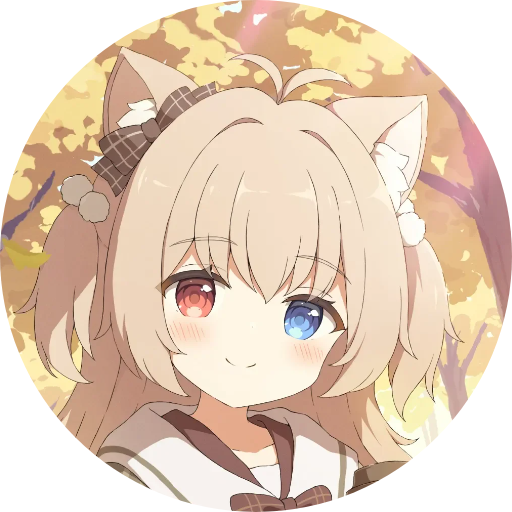
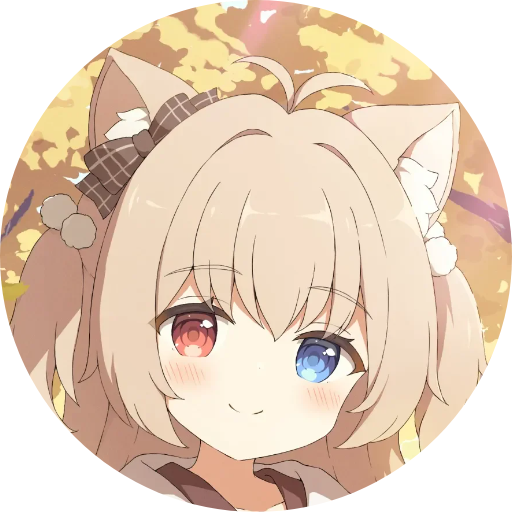
修改了头像放大后的拉伸问题

diff --git a/high-school-worker-design-forend/src/pages/Profile/index.tsx b/high-school-worker-design-forend/src/pages/Profile/index.tsx
@@ -15,6 +15,11 @@ const AVATAR_STAGE_HEIGHT = 320;
 const AVATAR_CIRCLE_SIZE = 220;
 const AVATAR_OUTPUT_SIZE = 512;
 
+const getDefaultCircleOffset = () => ({
+  x: Math.round((AVATAR_STAGE_WIDTH - AVATAR_CIRCLE_SIZE) / 2),
+  y: Math.round((AVATAR_STAGE_HEIGHT - AVATAR_CIRCLE_SIZE) / 2),
+});
+
 export default function ProfilePage() {
   const navigate = useNavigate();
   const { user, logout, setUser } = useAuthStore();
@@ -36,17 +41,11 @@ export default function ProfilePage() {
   const [pendingImageNaturalSize, setPendingImageNaturalSize] = useState({ width: 0, height: 0 });
   const [pendingCropScale, setPendingCropScale] = useState(1);
   const [pendingCropOffset, setPendingCropOffset] = useState({ x: 0, y: 0 });
-  const [pendingCircleOffset, setPendingCircleOffset] = useState({
-    x: Math.round((AVATAR_STAGE_WIDTH - AVATAR_CIRCLE_SIZE) / 2),
-    y: Math.round((AVATAR_STAGE_HEIGHT - AVATAR_CIRCLE_SIZE) / 2),
-  });
+  const [pendingCircleOffset, setPendingCircleOffset] = useState(getDefaultCircleOffset);
   const [pendingDragMode, setPendingDragMode] = useState<'none' | 'image' | 'circle'>('none');
   const [pendingDragStartMouse, setPendingDragStartMouse] = useState({ x: 0, y: 0 });
   const [pendingDragStartImageOffset, setPendingDragStartImageOffset] = useState({ x: 0, y: 0 });
-  const [pendingDragStartCircleOffset, setPendingDragStartCircleOffset] = useState({
-    x: Math.round((AVATAR_STAGE_WIDTH - AVATAR_CIRCLE_SIZE) / 2),
-    y: Math.round((AVATAR_STAGE_HEIGHT - AVATAR_CIRCLE_SIZE) / 2),
-  });
+  const [pendingDragStartCircleOffset, setPendingDragStartCircleOffset] = useState(getDefaultCircleOffset);
   const [pendingActivePointerId, setPendingActivePointerId] = useState<number | null>(null);
 
   useEffect(() => {
@@ -181,18 +180,36 @@ export default function ProfilePage() {
     setPendingImageNaturalSize({ width: 0, height: 0 });
     setPendingCropScale(1);
     setPendingCropOffset({ x: 0, y: 0 });
-    setPendingCircleOffset({
-      x: Math.round((AVATAR_STAGE_WIDTH - AVATAR_CIRCLE_SIZE) / 2),
-      y: Math.round((AVATAR_STAGE_HEIGHT - AVATAR_CIRCLE_SIZE) / 2),
-    });
+    setPendingCircleOffset(getDefaultCircleOffset());
     setPendingDragMode('none');
     setPendingDragStartMouse({ x: 0, y: 0 });
     setPendingDragStartImageOffset({ x: 0, y: 0 });
-    setPendingDragStartCircleOffset({
-      x: Math.round((AVATAR_STAGE_WIDTH - AVATAR_CIRCLE_SIZE) / 2),
-      y: Math.round((AVATAR_STAGE_HEIGHT - AVATAR_CIRCLE_SIZE) / 2),
-    });
+    setPendingDragStartCircleOffset(getDefaultCircleOffset());
     setPendingActivePointerId(null);
+  };
+
+  const resetPendingCropView = () => {
+    const width = pendingImageNaturalSize.width;
+    const height = pendingImageNaturalSize.height;
+    const defaultCircle = getDefaultCircleOffset();
+
+    setPendingCropScale(1);
+    setPendingCircleOffset(defaultCircle);
+    setPendingDragMode('none');
+    setPendingActivePointerId(null);
+
+    if (!width || !height) {
+      setPendingCropOffset({ x: 0, y: 0 });
+      return;
+    }
+
+    const baseScale = getCropBaseScale(width, height);
+    const displayWidth = width * baseScale;
+    const displayHeight = height * baseScale;
+    setPendingCropOffset({
+      x: defaultCircle.x + (AVATAR_CIRCLE_SIZE - displayWidth) / 2,
+      y: defaultCircle.y + (AVATAR_CIRCLE_SIZE - displayHeight) / 2,
+    });
   };
 
   const getCropBaseScale = (width: number, height: number) => {
@@ -202,21 +219,12 @@ export default function ProfilePage() {
 
   const getCropDisplaySize = (scale: number) => {
     const baseScale = getCropBaseScale(pendingImageNaturalSize.width, pendingImageNaturalSize.height);
+    const width = pendingImageNaturalSize.width * baseScale * scale;
+    const ratio = pendingImageNaturalSize.width > 0 ? (pendingImageNaturalSize.height / pendingImageNaturalSize.width) : 1;
     return {
-      width: pendingImageNaturalSize.width * baseScale * scale,
-      height: pendingImageNaturalSize.height * baseScale * scale,
+      width,
+      height: width * ratio,
     };
-  };
-
-  const clampCropOffset = (nextX: number, nextY: number, scale: number) => {
-    const display = getCropDisplaySize(scale);
-    const minX = Math.min(0, pendingCircleOffset.x + AVATAR_CIRCLE_SIZE - display.width);
-    const minY = Math.min(0, pendingCircleOffset.y + AVATAR_CIRCLE_SIZE - display.height);
-    const maxX = pendingCircleOffset.x;
-    const maxY = pendingCircleOffset.y;
-    const x = Math.min(maxX, Math.max(minX, nextX));
-    const y = Math.min(maxY, Math.max(minY, nextY));
-    return { x, y };
   };
 
   const clampCircleOffsetByImage = (
@@ -267,6 +275,16 @@ export default function ProfilePage() {
     };
   };
 
+  const normalizeCropState = (
+    nextScale: number,
+    crop: { x: number; y: number },
+    circle: { x: number; y: number },
+  ) => {
+    const clampedCircle = clampCircleOffsetByImage(circle.x, circle.y, crop, nextScale);
+    const clampedCrop = clampCropOffsetByCircle(crop.x, crop.y, nextScale, clampedCircle);
+    return { clampedCircle, clampedCrop };
+  };
+
   useEffect(() => {
     if (!pendingAvatarPreviewUrl) return;
 
@@ -276,10 +294,7 @@ export default function ProfilePage() {
       const height = img.naturalHeight || 1;
       setPendingImageNaturalSize({ width, height });
       setPendingCropScale(1);
-      const initialCircle = {
-        x: Math.round((AVATAR_STAGE_WIDTH - AVATAR_CIRCLE_SIZE) / 2),
-        y: Math.round((AVATAR_STAGE_HEIGHT - AVATAR_CIRCLE_SIZE) / 2),
-      };
+      const initialCircle = getDefaultCircleOffset();
       setPendingCircleOffset(initialCircle);
 
       const baseScale = getCropBaseScale(width, height);
@@ -374,6 +389,11 @@ export default function ProfilePage() {
       const sw = Math.min(image.naturalWidth - sx, (AVATAR_CIRCLE_SIZE / display.width) * image.naturalWidth);
       const sh = Math.min(image.naturalHeight - sy, (AVATAR_CIRCLE_SIZE / display.height) * image.naturalHeight);
 
+      // Keep output strictly proportional: crop a centered square from the selected region.
+      const side = Math.min(sw, sh);
+      const sxSquare = sx + (sw - side) / 2;
+      const sySquare = sy + (sh - side) / 2;
+
       const canvas = document.createElement('canvas');
       canvas.width = AVATAR_OUTPUT_SIZE;
       canvas.height = AVATAR_OUTPUT_SIZE;
@@ -389,7 +409,7 @@ export default function ProfilePage() {
       ctx.arc(AVATAR_OUTPUT_SIZE / 2, AVATAR_OUTPUT_SIZE / 2, AVATAR_OUTPUT_SIZE / 2, 0, Math.PI * 2);
       ctx.closePath();
       ctx.clip();
-      ctx.drawImage(image, sx, sy, sw, sh, 0, 0, AVATAR_OUTPUT_SIZE, AVATAR_OUTPUT_SIZE);
+      ctx.drawImage(image, sxSquare, sySquare, side, side, 0, 0, AVATAR_OUTPUT_SIZE, AVATAR_OUTPUT_SIZE);
       ctx.restore();
 
       const blob = await new Promise<Blob | null>((resolve) => {
@@ -937,8 +957,10 @@ export default function ProfilePage() {
               onWheel={(e) => {
                 e.preventDefault();
                 const nextScale = Math.min(4, Math.max(1, Number((e.deltaY > 0 ? pendingCropScale - 0.1 : pendingCropScale + 0.1).toFixed(2))));
+                const normalized = normalizeCropState(nextScale, pendingCropOffset, pendingCircleOffset);
                 setPendingCropScale(nextScale);
-                setPendingCropOffset((prev) => clampCropOffset(prev.x, prev.y, nextScale));
+                setPendingCircleOffset(normalized.clampedCircle);
+                setPendingCropOffset(normalized.clampedCrop);
               }}
               onPointerDown={(e) => {
                 if (e.pointerType === 'mouse' && e.button !== 0) return;
@@ -979,15 +1001,15 @@ export default function ProfilePage() {
               }}
             >
               <img
-                src={pendingAvatarPreviewUrl}
-                alt="待上传头像预览"
-                className={`absolute top-0 left-0 ${pendingDragMode === 'image' ? 'cursor-grabbing' : 'cursor-grab'}`}
-                style={{
-                  width: getCropDisplaySize(pendingCropScale).width,
-                  height: getCropDisplaySize(pendingCropScale).height,
-                  transform: `translate(${pendingCropOffset.x}px, ${pendingCropOffset.y}px)`,
-                  transition: pendingDragMode === 'image' ? 'none' : 'transform 0.08s linear',
-                }}
+                  src={pendingAvatarPreviewUrl}
+                  alt="待上传头像预览"
+                  className={`absolute top-0 left-0 max-w-none ${pendingDragMode === 'image' ? 'cursor-grabbing' : 'cursor-grab'}`}
+                  style={{
+                    width: getCropDisplaySize(pendingCropScale).width,
+                    height: 'auto',
+                    transform: `translate(${pendingCropOffset.x}px, ${pendingCropOffset.y}px)`,
+                    transition: pendingDragMode === 'image' ? 'none' : 'transform 0.08s linear',
+                  }}
               />
               <div
                 className="pointer-events-none absolute border-2 border-white/90"
@@ -1002,6 +1024,10 @@ export default function ProfilePage() {
               />
             </div>
             <div className="text-center text-xs text-gray-500 mb-3">拖动圆形边框可移动选区，拖动图片可调整内容，滚轮缩放；边界已限制不会漏底</div>
+            <div className="flex items-center justify-between mb-2 text-xs text-gray-500">
+              <span>当前缩放：{Math.round(pendingCropScale * 100)}%</span>
+              <Button size="small" onClick={resetPendingCropView}>重置位置和大小</Button>
+            </div>
             <div className="flex justify-end gap-2">
               <Button onClick={clearPendingAvatar}>返回选择图片</Button>
               <Button type="primary" loading={avatarUploading} onClick={() => void handleConfirmAvatarUpload()}>
